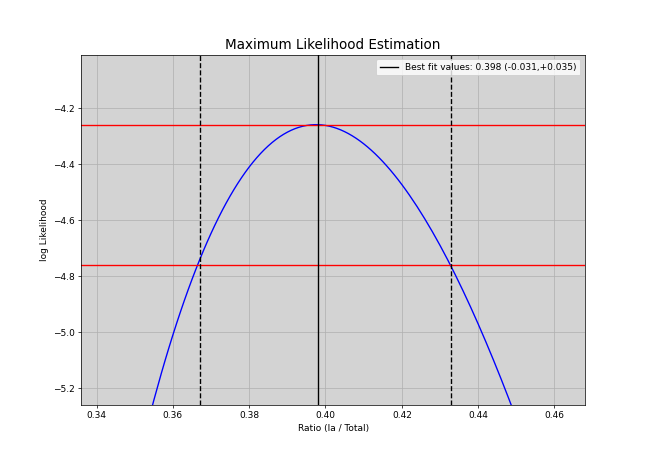
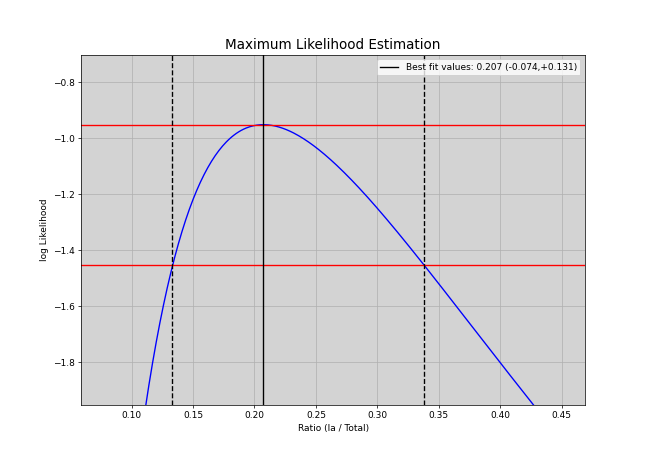
checkboxes added for vapec elements

diff --git a/snratio/gui/qt_snratio.py b/snratio/gui/qt_snratio.py
@@ -3,13 +3,12 @@
 # Form implementation generated from reading ui file 'snratio/gui/qt_snratio.ui',
 # licensing of 'snratio/gui/qt_snratio.ui' applies.
 #
-# Created: Thu Apr  9 20:54:32 2020
+# Created: Wed Apr 29 16:47:46 2020
 #      by: pyside2-uic  running on PySide2 5.13.2
 #
 # WARNING! All changes made in this file will be lost!
 
 from PySide2 import QtCore, QtGui, QtWidgets
-
 
 class Ui_MainWindow(object):
     def setupUi(self, MainWindow):
@@ -250,7 +249,7 @@ class Ui_MainWindow(object):
         font.setPointSize(11)
         self.box_sncc_abund.setFont(font)
         self.box_sncc_abund.setObjectName("box_sncc_abund")
-        #self.box_sncc_abund.addItem("")
+        self.box_sncc_abund.addItem("")
         self.box_sncc_abund.addItem("")
         self.box_sncc_abund.addItem("")
         self.box_sncc_abund.addItem("")
@@ -354,10 +353,57 @@ class Ui_MainWindow(object):
         self.frame_4.setFrameShadow(QtWidgets.QFrame.Raised)
         self.frame_4.setObjectName("frame_4")
         self.gridLayout_5 = QtWidgets.QGridLayout(self.frame_4)
+        self.gridLayout_5.setSpacing(5)
+        self.gridLayout_5.setContentsMargins(5, 5, 5, 5)
         self.gridLayout_5.setObjectName("gridLayout_5")
         self.plainTextEdit_terminal = QtWidgets.QPlainTextEdit(self.frame_4)
         self.plainTextEdit_terminal.setObjectName("plainTextEdit_terminal")
-        self.gridLayout_5.addWidget(self.plainTextEdit_terminal, 0, 0, 1, 1)
+        self.gridLayout_5.addWidget(self.plainTextEdit_terminal, 1, 0, 1, 1)
+        self.frame_6 = QtWidgets.QFrame(self.frame_4)
+        self.frame_6.setMinimumSize(QtCore.QSize(0, 25))
+        self.frame_6.setFrameShape(QtWidgets.QFrame.StyledPanel)
+        self.frame_6.setFrameShadow(QtWidgets.QFrame.Raised)
+        self.frame_6.setObjectName("frame_6")
+        self.horizontalLayout_2 = QtWidgets.QHBoxLayout(self.frame_6)
+        self.horizontalLayout_2.setContentsMargins(1, 1, 1, 1)
+        self.horizontalLayout_2.setObjectName("horizontalLayout_2")
+        self.checkBox_C = QtWidgets.QCheckBox(self.frame_6)
+        self.checkBox_C.setObjectName("checkBox_C")
+        self.horizontalLayout_2.addWidget(self.checkBox_C)
+        self.checkBox_N = QtWidgets.QCheckBox(self.frame_6)
+        self.checkBox_N.setObjectName("checkBox_N")
+        self.horizontalLayout_2.addWidget(self.checkBox_N)
+        self.checkBox_O = QtWidgets.QCheckBox(self.frame_6)
+        self.checkBox_O.setObjectName("checkBox_O")
+        self.horizontalLayout_2.addWidget(self.checkBox_O)
+        self.checkBox_Ne = QtWidgets.QCheckBox(self.frame_6)
+        self.checkBox_Ne.setObjectName("checkBox_Ne")
+        self.horizontalLayout_2.addWidget(self.checkBox_Ne)
+        self.checkBox_Mg = QtWidgets.QCheckBox(self.frame_6)
+        self.checkBox_Mg.setObjectName("checkBox_Mg")
+        self.horizontalLayout_2.addWidget(self.checkBox_Mg)
+        self.checkBox_Al = QtWidgets.QCheckBox(self.frame_6)
+        self.checkBox_Al.setObjectName("checkBox_Al")
+        self.horizontalLayout_2.addWidget(self.checkBox_Al)
+        self.checkBox_Si = QtWidgets.QCheckBox(self.frame_6)
+        self.checkBox_Si.setObjectName("checkBox_Si")
+        self.horizontalLayout_2.addWidget(self.checkBox_Si)
+        self.checkBox_S = QtWidgets.QCheckBox(self.frame_6)
+        self.checkBox_S.setObjectName("checkBox_S")
+        self.horizontalLayout_2.addWidget(self.checkBox_S)
+        self.checkBox_Ar = QtWidgets.QCheckBox(self.frame_6)
+        self.checkBox_Ar.setObjectName("checkBox_Ar")
+        self.horizontalLayout_2.addWidget(self.checkBox_Ar)
+        self.checkBox_Ca = QtWidgets.QCheckBox(self.frame_6)
+        self.checkBox_Ca.setObjectName("checkBox_Ca")
+        self.horizontalLayout_2.addWidget(self.checkBox_Ca)
+        self.checkBox_Fe = QtWidgets.QCheckBox(self.frame_6)
+        self.checkBox_Fe.setObjectName("checkBox_Fe")
+        self.horizontalLayout_2.addWidget(self.checkBox_Fe)
+        self.checkBox_Ni = QtWidgets.QCheckBox(self.frame_6)
+        self.checkBox_Ni.setObjectName("checkBox_Ni")
+        self.horizontalLayout_2.addWidget(self.checkBox_Ni)
+        self.gridLayout_5.addWidget(self.frame_6, 0, 0, 1, 1)
         self.gridLayout_7.addWidget(self.frame_4, 1, 1, 1, 2)
         self.frame_2 = QtWidgets.QFrame(self.frame)
         self.frame_2.setMinimumSize(QtCore.QSize(140, 0))
@@ -495,7 +541,7 @@ class Ui_MainWindow(object):
         self.menubar.addAction(self.menuHelp.menuAction())
 
         self.retranslateUi(MainWindow)
-        self.box_sncc_abund.setCurrentIndex(3)
+        self.box_sncc_abund.setCurrentIndex(4)
         QtCore.QMetaObject.connectSlotsByName(MainWindow)
 
     def retranslateUi(self, MainWindow):
@@ -525,12 +571,12 @@ class Ui_MainWindow(object):
         self.box_sncc_table.setItemText(1, QtWidgets.QApplication.translate("MainWindow", "Nomoto (2006)", None, -1))
         self.box_sncc_table.setItemText(2, QtWidgets.QApplication.translate("MainWindow", "Tsujimoto (1995)", None, -1))
         self.label_sncc_abund.setText(QtWidgets.QApplication.translate("MainWindow", "Abundance:", None, -1))
-        #self.box_sncc_abund.setItemText(5, QtWidgets.QApplication.translate("MainWindow", "0.0", None, -1))
-        self.box_sncc_abund.setItemText(0, QtWidgets.QApplication.translate("MainWindow", "0.001", None, -1))
-        self.box_sncc_abund.setItemText(1, QtWidgets.QApplication.translate("MainWindow", "0.004", None, -1))
-        self.box_sncc_abund.setItemText(2, QtWidgets.QApplication.translate("MainWindow", "0.008", None, -1))
-        self.box_sncc_abund.setItemText(3, QtWidgets.QApplication.translate("MainWindow", "0.02", None, -1))
-        self.box_sncc_abund.setItemText(4, QtWidgets.QApplication.translate("MainWindow", "0.05", None, -1))
+        self.box_sncc_abund.setItemText(0, QtWidgets.QApplication.translate("MainWindow", "0.0", None, -1))
+        self.box_sncc_abund.setItemText(1, QtWidgets.QApplication.translate("MainWindow", "0.001", None, -1))
+        self.box_sncc_abund.setItemText(2, QtWidgets.QApplication.translate("MainWindow", "0.004", None, -1))
+        self.box_sncc_abund.setItemText(3, QtWidgets.QApplication.translate("MainWindow", "0.008", None, -1))
+        self.box_sncc_abund.setItemText(4, QtWidgets.QApplication.translate("MainWindow", "0.02", None, -1))
+        self.box_sncc_abund.setItemText(5, QtWidgets.QApplication.translate("MainWindow", "0.05", None, -1))
         self.label_sncc_mass.setText(QtWidgets.QApplication.translate("MainWindow", "Mass Range:", None, -1))
         self.box_sncc_mass.setItemText(0, QtWidgets.QApplication.translate("MainWindow", "10-50 M sun", None, -1))
         self.box_sncc_mass.setItemText(1, QtWidgets.QApplication.translate("MainWindow", "10-70 M sun", None, -1))
@@ -540,6 +586,18 @@ class Ui_MainWindow(object):
         self.box_solar_table.setItemText(0, QtWidgets.QApplication.translate("MainWindow", "Lodd", None, -1))
         self.box_solar_table.setItemText(1, QtWidgets.QApplication.translate("MainWindow", "Angr", None, -1))
         self.box_solar_table.setItemText(2, QtWidgets.QApplication.translate("MainWindow", "Aspl", None, -1))
+        self.checkBox_C.setText(QtWidgets.QApplication.translate("MainWindow", "C", None, -1))
+        self.checkBox_N.setText(QtWidgets.QApplication.translate("MainWindow", "N", None, -1))
+        self.checkBox_O.setText(QtWidgets.QApplication.translate("MainWindow", "O", None, -1))
+        self.checkBox_Ne.setText(QtWidgets.QApplication.translate("MainWindow", "Ne", None, -1))
+        self.checkBox_Mg.setText(QtWidgets.QApplication.translate("MainWindow", "Mg", None, -1))
+        self.checkBox_Al.setText(QtWidgets.QApplication.translate("MainWindow", "Al", None, -1))
+        self.checkBox_Si.setText(QtWidgets.QApplication.translate("MainWindow", "Si", None, -1))
+        self.checkBox_S.setText(QtWidgets.QApplication.translate("MainWindow", "S", None, -1))
+        self.checkBox_Ar.setText(QtWidgets.QApplication.translate("MainWindow", "Ar", None, -1))
+        self.checkBox_Ca.setText(QtWidgets.QApplication.translate("MainWindow", "Ca", None, -1))
+        self.checkBox_Fe.setText(QtWidgets.QApplication.translate("MainWindow", "Fe", None, -1))
+        self.checkBox_Ni.setText(QtWidgets.QApplication.translate("MainWindow", "Ni", None, -1))
         self.button_save_plots.setText(QtWidgets.QApplication.translate("MainWindow", "Save: Plots", None, -1))
         self.button_fit.setText(QtWidgets.QApplication.translate("MainWindow", "Fit", None, -1))
         self.button_plot_fit.setText(QtWidgets.QApplication.translate("MainWindow", "Plot: Fit", None, -1))

diff --git a/snratio/gui/main_gui.py b/snratio/gui/main_gui.py
@@ -16,6 +16,19 @@ class MainWindow(QtWidgets.QMainWindow, Ui_MainWindow):
         self.setupUi(self)
         self.plot_area_grid_layout = QtWidgets.QGridLayout(self.widget_plot_area)
 
+        self.checkbox_dict = {"C": self.checkBox_C,
+                              "N": self.checkBox_N,
+                              "O": self.checkBox_O,
+                              "Ne": self.checkBox_Ne,
+                              "Mg": self.checkBox_Mg,
+                              "Al": self.checkBox_Al,
+                              "Si": self.checkBox_Si,
+                              "S": self.checkBox_S,
+                              "Ar": self.checkBox_Ar,
+                              "Ca": self.checkBox_Ca,
+                              "Fe": self.checkBox_Fe,
+                              "Ni": self.checkBox_Ni}
+
         self.calculator = Calculator()
 
         self.set_terminal("AstroLab gururla sunar..")
@@ -47,18 +60,26 @@ class MainWindow(QtWidgets.QMainWindow, Ui_MainWindow):
 
         self.box_sigma.currentTextChanged.connect(self.set_sigma)
 
+
     def load(self):
         path = self.lineEdit_load.text()
+        #if path == "":
+        #    self.calculator.update_selection("data", "test_data")
+        #else:
+        #    self.calculator.update_selection("data", "loaded_data")
+
         if path == "":
-            self.calculator.update_selection("data", "test_data")
-        else:
-            self.calculator.update_selection("data", "loaded_data")
+            path = self.calculator.data["test_data"]
 
         if os.path.exists(path):
             self.calculator.data["loaded_data"] = os.path.abspath(path)
             self.set_terminal("Data loaded: '{}'..".format(os.path.basename(path)))
         else:
             self.set_terminal("Warning: Can not open '{}'!".format(path))
+
+        self.calculator.initialise_data_table()
+        self.fill_checkboxes()
+
 
     def plot_fit(self):
         if self.calculator.plots is not None:
@@ -88,6 +109,16 @@ class MainWindow(QtWidgets.QMainWindow, Ui_MainWindow):
         self.plot_area_grid_layout.addWidget(canvas, 0, 0)
 
     def fit_func(self):
+        self.calculator.initialise_data_table()
+
+        selected_elements = []
+        for element, checkbox in self.checkbox_dict.items():
+            if checkbox.isChecked() == True:
+                selected_elements.append(element)
+
+        self.calculator.selected_elements = selected_elements
+        self.calculator.initialise_selected_data()
+
         self.set_terminal("Reading tables..")
         self.calculator.initialise_all()
         self.set_terminal("Merging tables..")
@@ -97,6 +128,8 @@ class MainWindow(QtWidgets.QMainWindow, Ui_MainWindow):
         self.calculator.initialise_after_fit()
 
         self.set_fit_results()
+        self.plot_fit()
+
 
     def save_plots(self, path="outputs"):
         check_and_create_directory(os.path.join(os.curdir, path))
@@ -201,6 +234,40 @@ class MainWindow(QtWidgets.QMainWindow, Ui_MainWindow):
         modified_text = "term$ {}".format(text)
         self.plainTextEdit_terminal.appendPlainText(modified_text)
         self.repaint()
+
+
+    def check_checkbox(self, element):
+        self.checkbox_dict[element].setChecked(True)
+
+    def uncheck_checkbox(self, element):
+        self.checkbox_dict[element].setChecked(False)
+
+    def set_checkbox_checkable(self, element):
+        self.checkbox_dict[element].setDisabled(False)
+        self.checkbox_dict[element].setCheckable(True)
+
+    def set_checkbox_uncheckable(self, element):
+        self.checkbox_dict[element].setCheckable(False)
+        self.checkbox_dict[element].setDisabled(True)
+
+    def set_checkbox_ref_element(self, element):
+        self.checkbox_dict[element].setChecked(True)
+
+    def fill_checkboxes(self):
+        for element in self.checkbox_dict.keys():
+            if element in self.calculator.all_elements:
+                print(element)
+                if element == self.calculator.ref_element:
+                    self.set_checkbox_ref_element(element)
+                else:
+                    self.set_checkbox_checkable(element)
+                    self.check_checkbox(element)
+            else:
+                self.set_checkbox_uncheckable(element)
+                self.uncheck_checkbox(element)
+
+        self.repaint()
+
 
 
 """

diff --git a/snratio/lib/main.py b/snratio/lib/main.py
@@ -27,11 +27,21 @@ class Calculator(Paths, Keywords, CurrentSelections):
         self.stats = None
         self.plots = None
 
+        self.all_elements = None
+        self.ref_element = None
+        self.selected_elements = None
+        self.selected_data = None
+
     def initialise_data_table(self):
         path = self.get_path(self.get_selection("data"))
-        ref_element = self.get_selection("ref_element")
+        self.ref_element = self.get_selection("ref_element")
 
-        self.data_table = Data(path=path, ref_element=ref_element)
+        self.data_table = Data(path=path, ref_element=self.ref_element)
+        self.all_elements = self.data_table.data["Element"].values
+
+    def initialise_selected_data(self):
+        filt = self.data_table.data["Element"].isin(self.selected_elements)
+        self.selected_data = self.data_table.data[filt]
 
     def initialise_mass_number_table(self):
         path = self.get_path("mass_number")
@@ -81,14 +91,15 @@ class Calculator(Paths, Keywords, CurrentSelections):
                            Ia_fraction_list=Ia_fraction_list)
 
     def initialise_all(self):
-        self.initialise_data_table()
+        #self.initialise_data_table()
         self.initialise_mass_number_table()
         self.initialise_Ia_table()
         self.initialise_cc_table()
         self.initialise_solar_table()
 
     def merge(self):
-        t1 = self.data_table.data
+        #t1 = self.data_table.data
+        t1 = self.selected_data
         t2 = self.mass_number_table.data
         t3 = self.Ia_table.model_yields
         t4 = self.cc_table.integrated_yields
@@ -106,3 +117,7 @@ class Calculator(Paths, Keywords, CurrentSelections):
 
     def update_tables_for_new_selections(self):
         pass
+
+    def set_selected_elements(self, element_list):
+        self.selected_elements = element_list
+        print("set_selected_elements")

diff --git a/snratio/lib/plots.py b/snratio/lib/plots.py
@@ -31,6 +31,13 @@ class Plots:
         ax.plot(self.Ia_fraction_list, self.chi_list)
         ax.axhline(y=min_chi, color="red")
 
+        ax.set_facecolor("lightgrey")
+        ax.set_xlabel("Ratio (Ia / Total)", fontsize=14)
+        ax.set_ylabel("Chi Squared", fontsize=14)
+
+        ax.set_title("Chi Squared Distribution", fontsize=15)
+        ax.grid(True)
+
         return fig
 
     def get_likelihood_plot(self):
@@ -39,8 +46,8 @@ class Plots:
 
         ax.plot(self.Ia_fraction_list, self.P_list, color="blue")
         ax.set_facecolor("lightgrey")
-        ax.set_xlabel("Ratio (Ia / Total)")
-        ax.set_ylabel("log Likelihood")
+        ax.set_xlabel("Ratio (Ia / Total)", fontsize=14)
+        ax.set_ylabel("log Likelihood", fontsize=14)
 
         ax.axhline(y=self.fit_results["P_max"], color="red")
         ax.axhline(y=self.fit_results["P_min"], color="red")
@@ -88,8 +95,8 @@ class Plots:
 
         ax.set_ylim(bottom=0)
 
-        ax.set_xlabel("Elements", fontsize=15)
-        ax.set_ylabel("[X/Fe]", fontsize=15)
+        ax.set_xlabel("Elements", fontsize=14)
+        ax.set_ylabel("[X/Fe]", fontsize=14)
         ax.set_title("Relative Abundances", fontsize=15)
         ax.legend(loc="upper left")
         ax.grid(True)

diff --git a/snratio/lib/table.py b/snratio/lib/table.py
@@ -52,8 +52,11 @@ class Data(Reader):
             ref_value_ratio = self.data[ref_row]["Abund"]
             ref_value_ratio_err = self.data[ref_row]["AbundError"]
 
+            if float(ref_value_ratio) == 1.0:
+                ref_value_ratio_err = float(ref_value_ratio) * 0.01
+
             if float(ref_value_ratio_err) == 0.0:
-                ref_value_ratio_err = 0.001
+                ref_value_ratio_err = float(ref_value_ratio) * 0.01
 
             normalised_values = []
             for r, r_err in zip(self.data["Abund"], self.data["AbundError"]):
